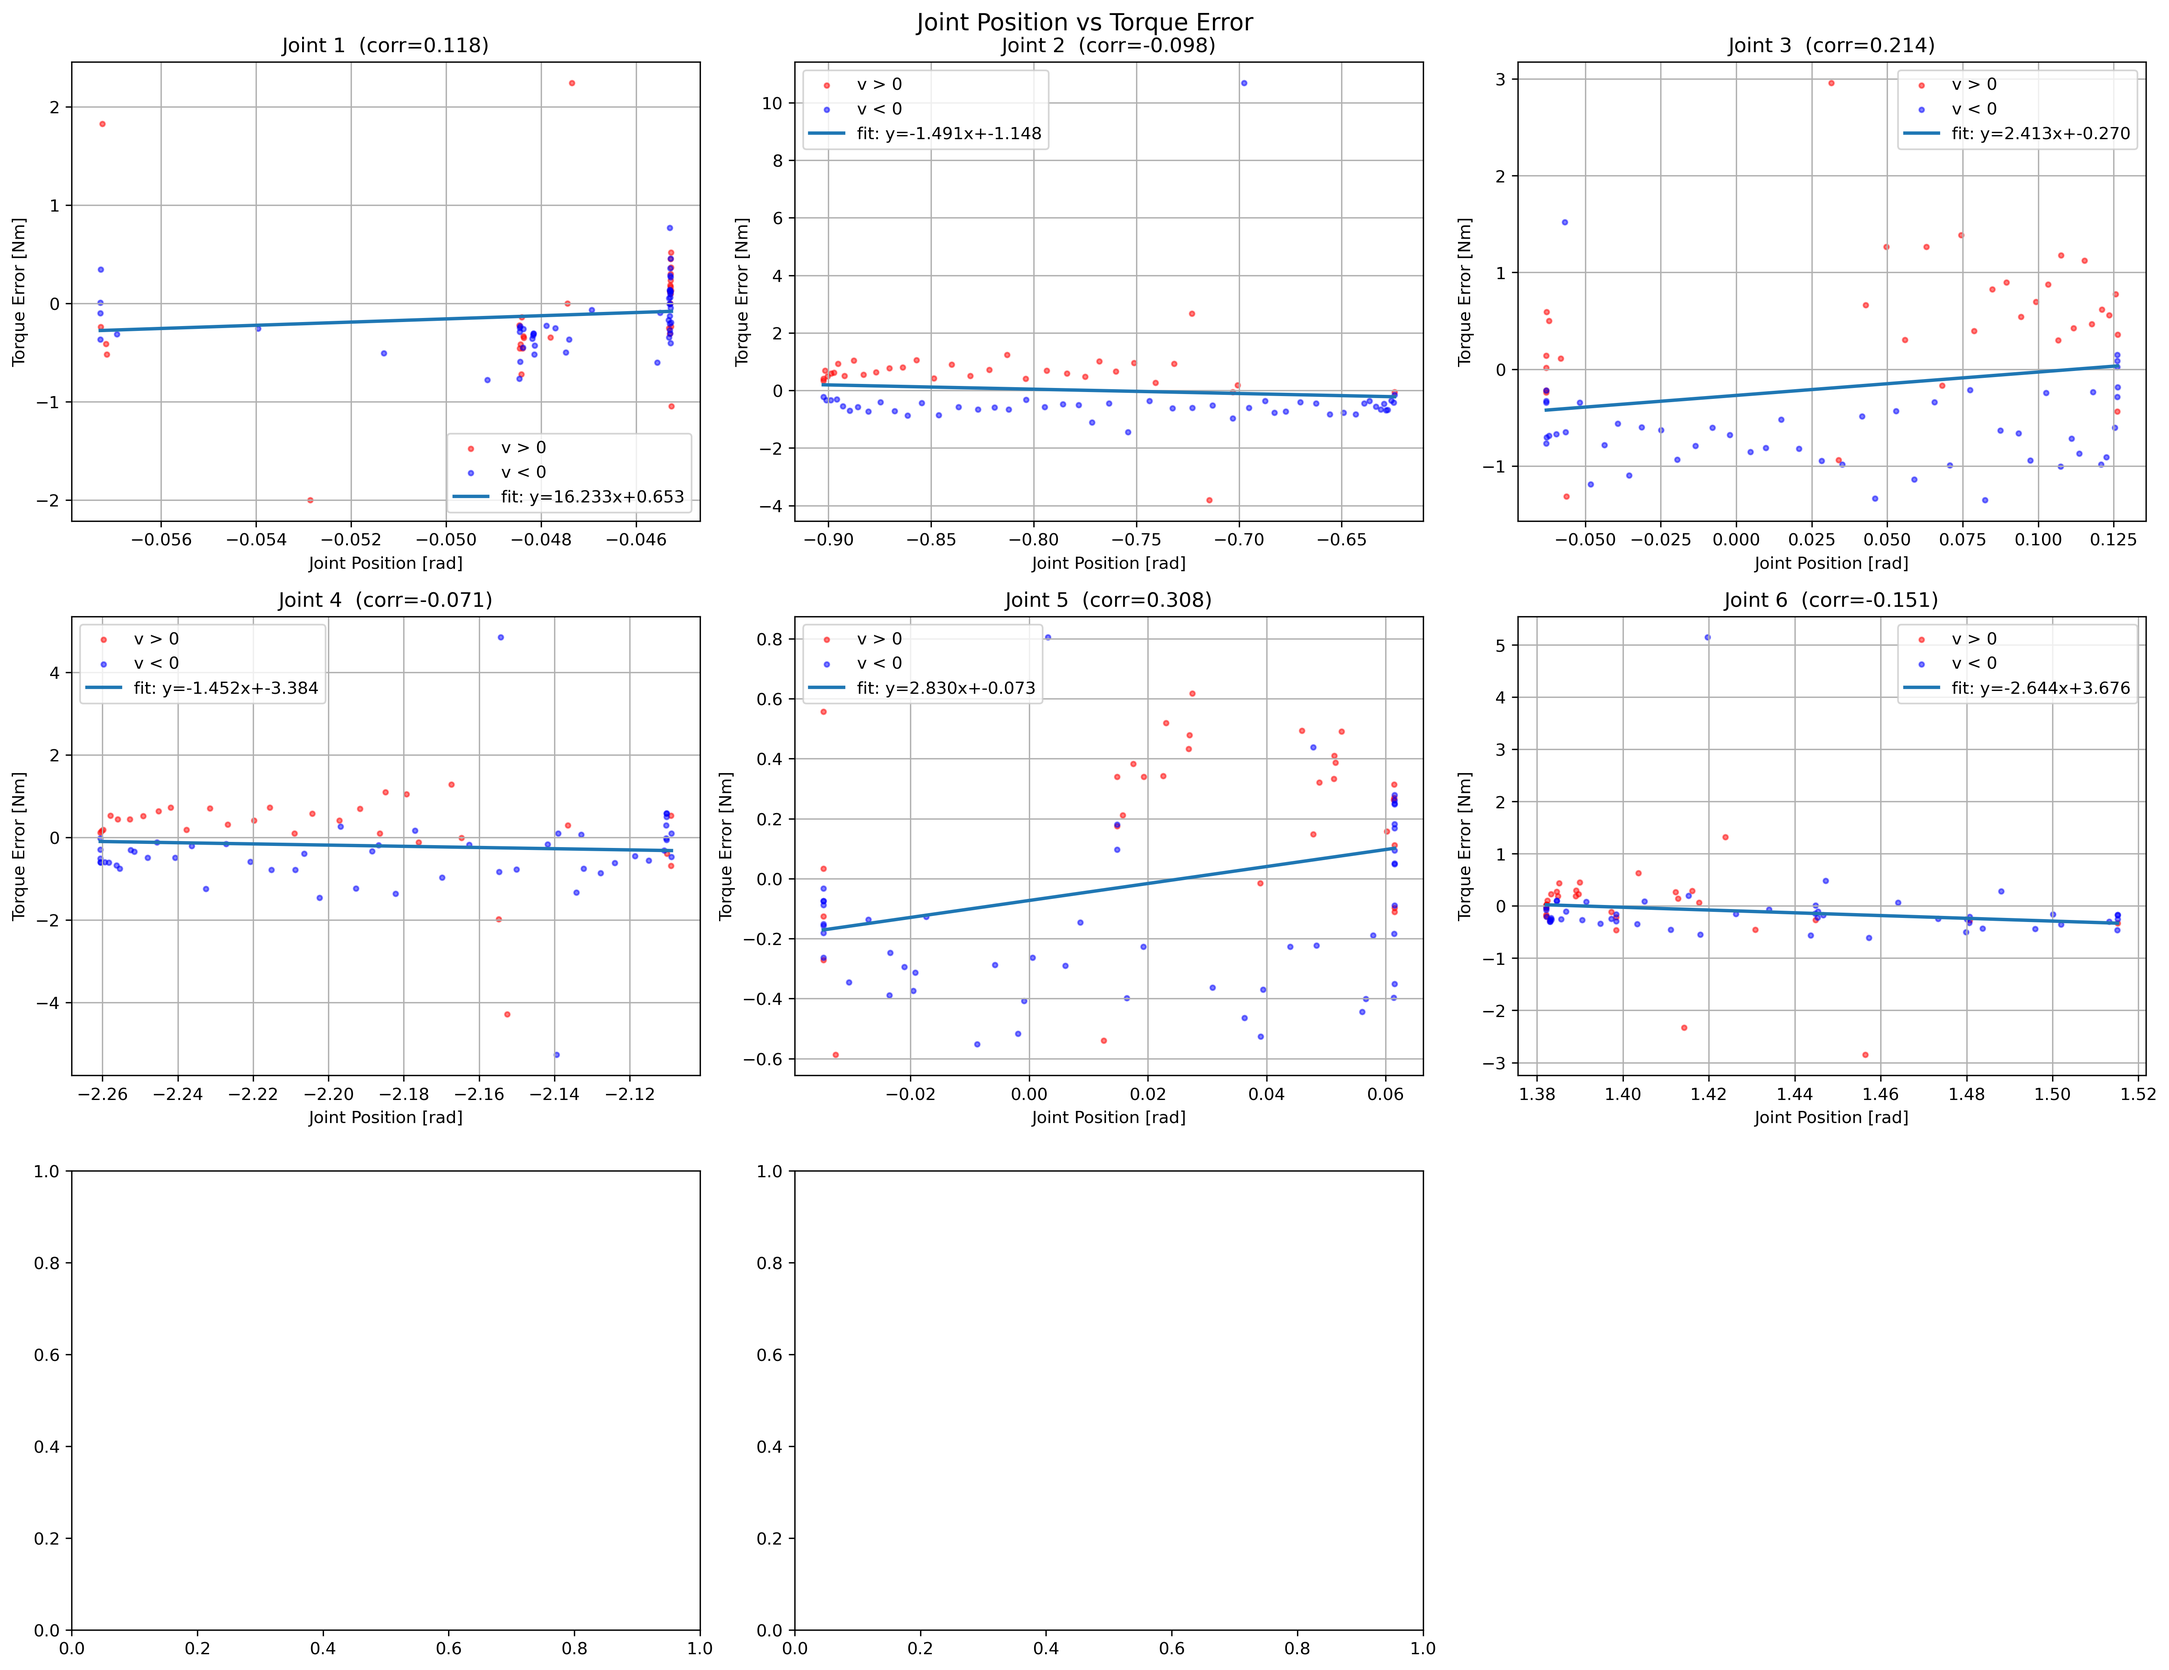
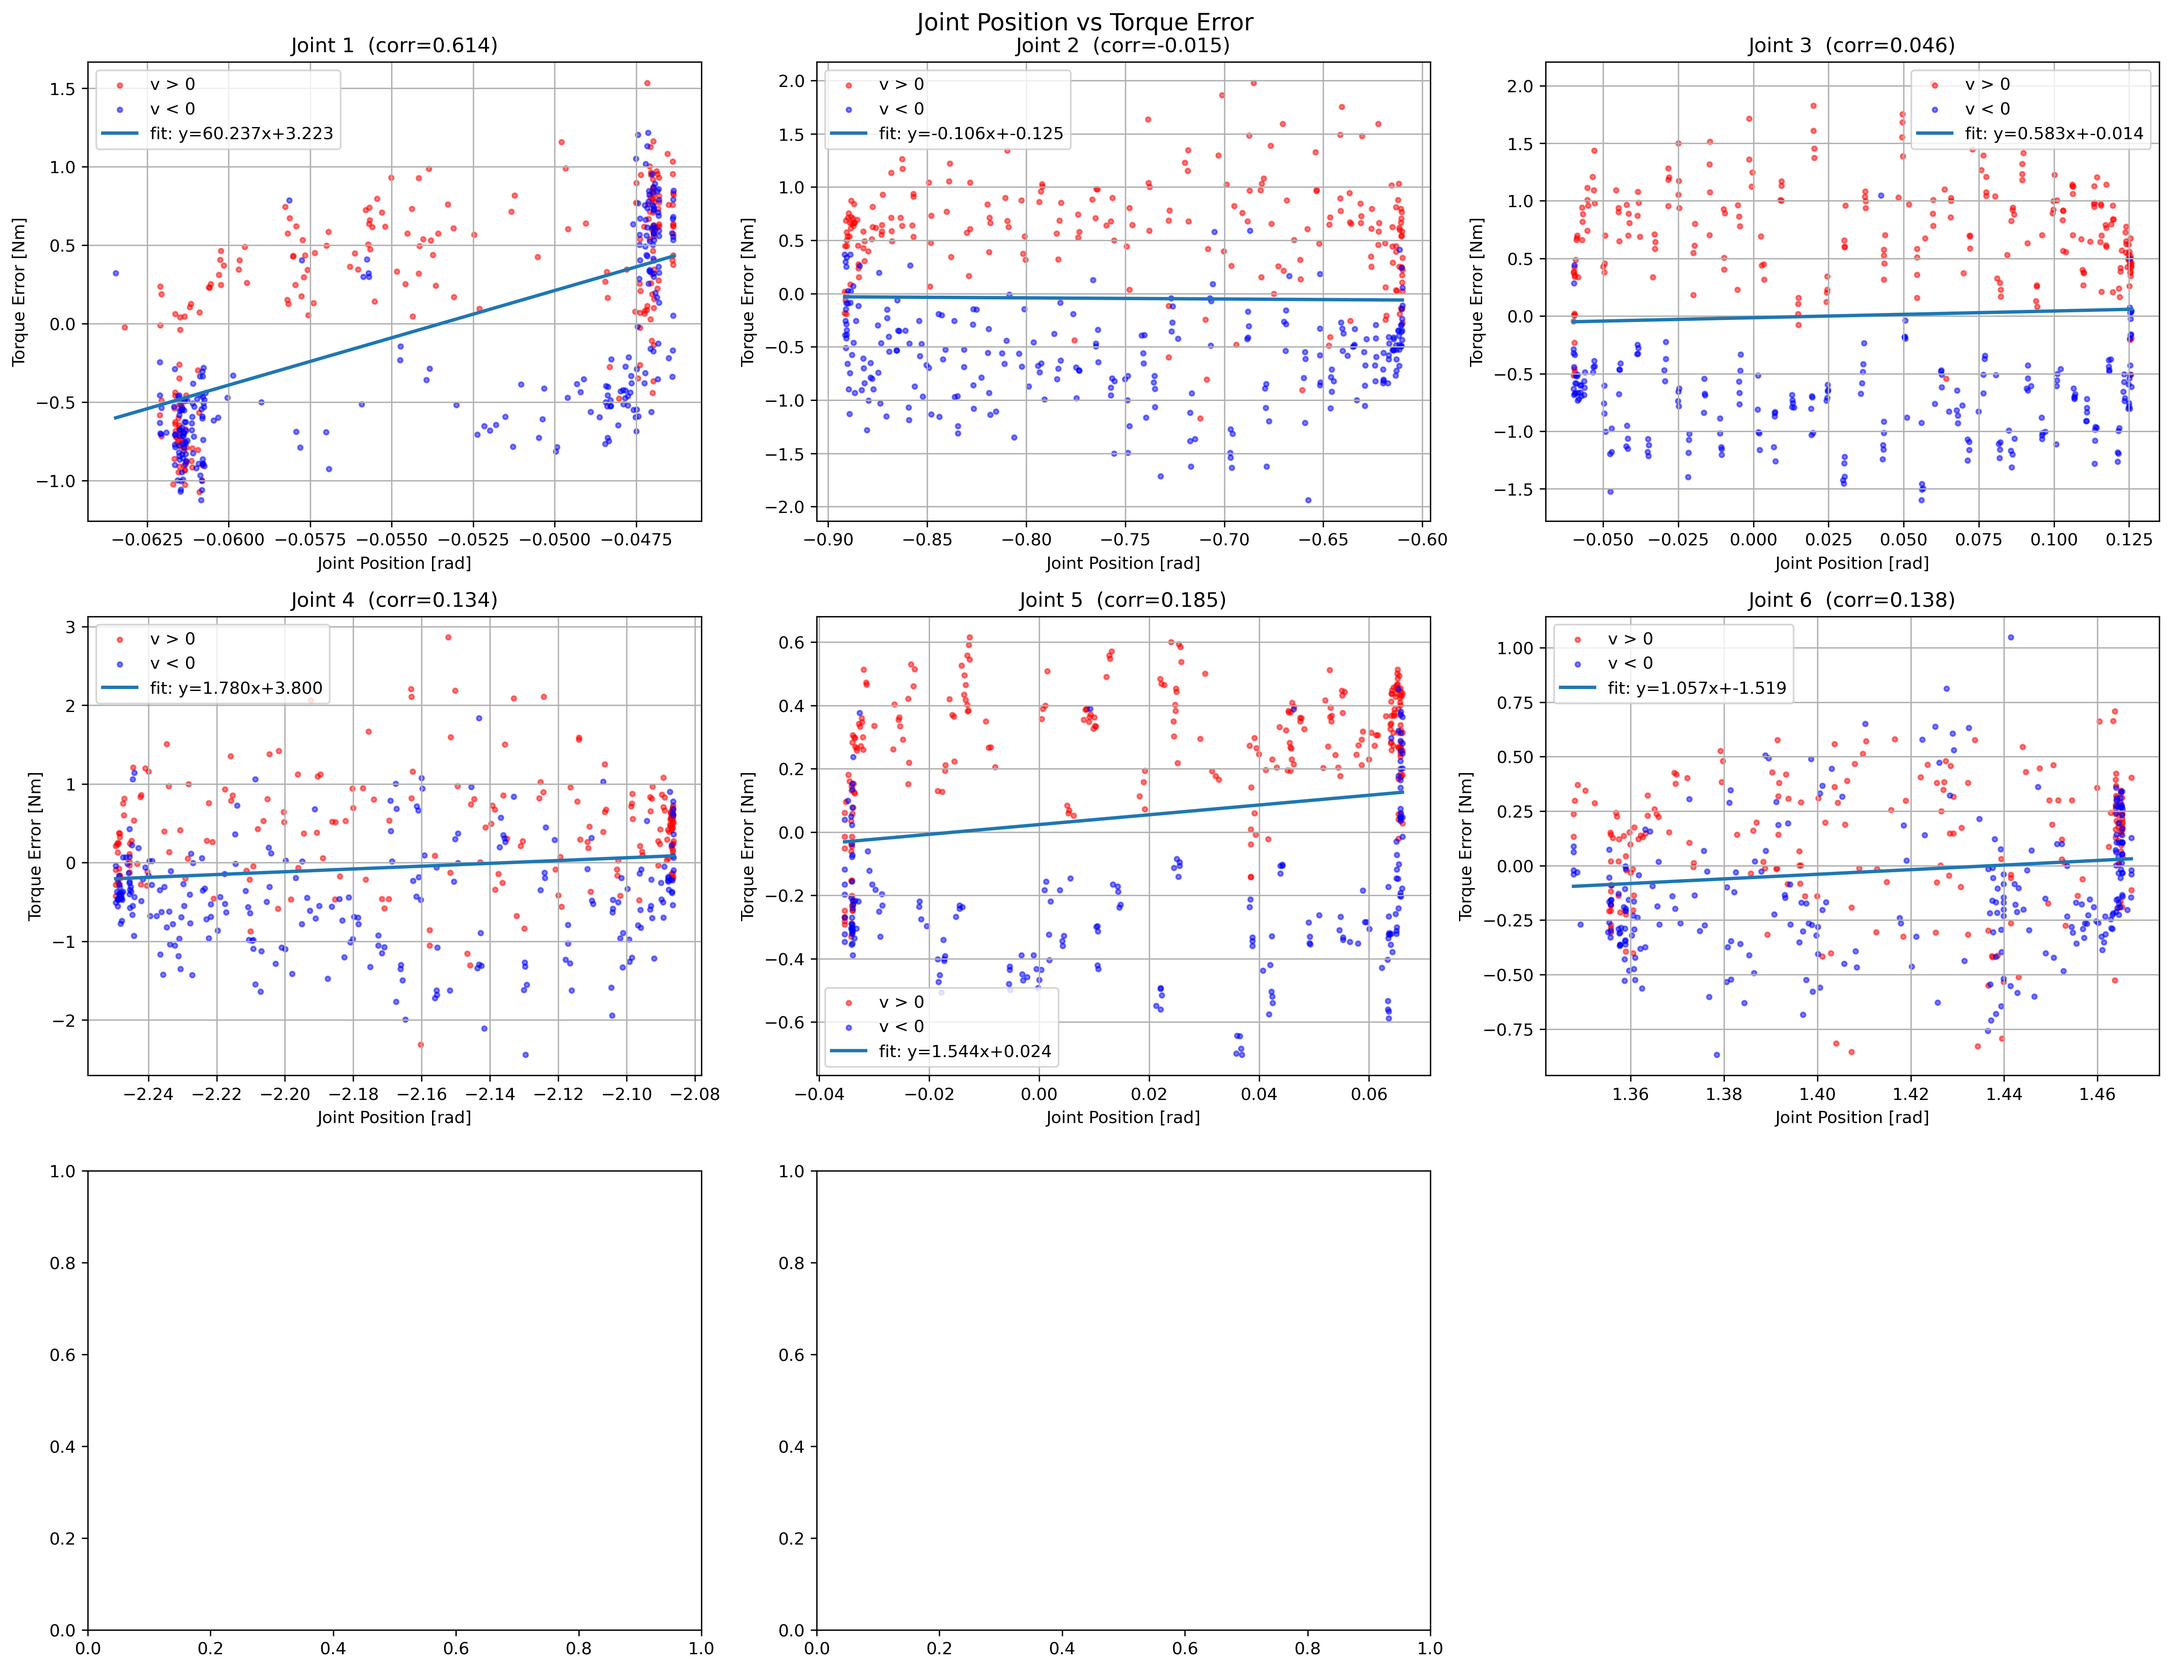
ggwp

diff --git a/new_structure/py_controllers/py_controllers/cartesian_impedance.py b/new_structure/py_controllers/py_controllers/cartesian_impedance.py
@@ -651,8 +651,8 @@ class CartesianImpedanceController(Node):
             #     @ (self.dpn_gains * (self.dq_des - dq)))
             N = np.eye(7) - zero_jacobian_pinv @ zero_jacobian   # or using your 5DoF jacobian
             tau_nullspace = N.T @ (- self.dpn_gains * dq)        # dq_des = 0 时就是减振
-            tau = tau + tau_nullspace
-            tau = tau + self.friction_compensation(dq)
+            # tau = tau + tau_nullspace
+            # tau = tau + self.friction_compensation(dq)
 
             # === 计算残差 ===
             tau_residual = tau_measured - tau - gravity_measured
@@ -727,6 +727,8 @@ class CartesianImpedanceController(Node):
                 )
 
                 # ===== 在 Td 附近均匀采样多个 rollout 点 =====
+                self.cloud_rollout_n = 1
+                self.cloud_rollout_span = 0.001
                 Td_center = delay_steps * dt
                 Td_samples = self._sample_rollout_times_uniform(
                     Td_center,
@@ -743,8 +745,22 @@ class CartesianImpedanceController(Node):
                     dq_roll = dq_base + ddq_base * Td_i
                     ddq_roll = ddq_base.copy()
 
+                    # ===== 找历史中最近的点 =====
+                    nearest_state, nearest_dist = self._find_nearest_history_state(
+                        q_roll, dq_roll, ddq_roll, use_ddq=False
+                    )
+
+                    if nearest_state is not None:
+                        q_nn = nearest_state["q"].copy()
+                        dq_nn = nearest_state["dq"].copy()
+                        ddq_nn = nearest_state["ddq_est"].copy()
+                    else:
+                        q_nn = q_roll.copy()
+                        dq_nn = dq_roll.copy()
+                        ddq_nn = ddq_roll.copy()
+
                     y_hat_i, var_i = self._gp_predict_and_update(
-                        q_roll, dq_roll, ddq_roll,
+                        q_nn, dq_nn, ddq_nn,
                         tau_base,
                         self.gp_models_big,
                         update=False
@@ -766,6 +782,7 @@ class CartesianImpedanceController(Node):
                 var_cloud = 1.0 / np.maximum(np.sum(prec_arr, axis=0), eps)
 
                 self.y_hat_cloud = y_hat_cloud.copy()
+                self.var_cloud = var_cloud.copy()
                 
                 # ---------------------------------------------------------
                 # C) 每帧融合（不要只在 else 融合）
@@ -781,7 +798,7 @@ class CartesianImpedanceController(Node):
                 self.y_hat_combined = w_l * self.y_hat_local + (1.0 - w_l) * self.y_hat_cloud
 
             # tau = tau - self.y_hat_local
-            tau = tau
+            tau = tau - self.y_hat_combined
 
             # publish on topic /effort_command
             self.effort_msg.efforts = tau.tolist()
@@ -1217,6 +1234,41 @@ class CartesianImpedanceController(Node):
         alpha = np.clip(alpha, 0.0, 1.0)
 
         return alpha * x_raw + (1.0 - alpha) * x_prev
+
+    def _find_nearest_history_state(self, q_query, dq_query, ddq_query=None, use_ddq=False):
+        """
+        在 state_buffer 中找和查询状态最近的历史点。
+        默认用 [q, dq] 做距离；
+        如果 use_ddq=True，则用 [q, dq, ddq] 做距离。
+        返回:
+            nearest_state: dict
+            nearest_dist: float
+        """
+        if len(self.state_buffer) == 0:
+            return None, np.inf
+
+        best_state = None
+        best_dist = np.inf
+
+        for item in self.state_buffer:
+            q_h = item["q"]
+            dq_h = item["dq"]
+
+            if use_ddq:
+                ddq_h = item["ddq_est"]
+                d = np.linalg.norm(
+                    np.concatenate([q_query - q_h, dq_query - dq_h, ddq_query - ddq_h])
+                )
+            else:
+                d = np.linalg.norm(
+                    np.concatenate([q_query - q_h, dq_query - dq_h])
+                )
+
+            if d < best_dist:
+                best_dist = d
+                best_state = item
+
+        return best_state, best_dist
 
     def _gp_predict_and_update(self, q, dq_des_joint, ddq_des_joint, tau_residual, models, update = True):
         """
